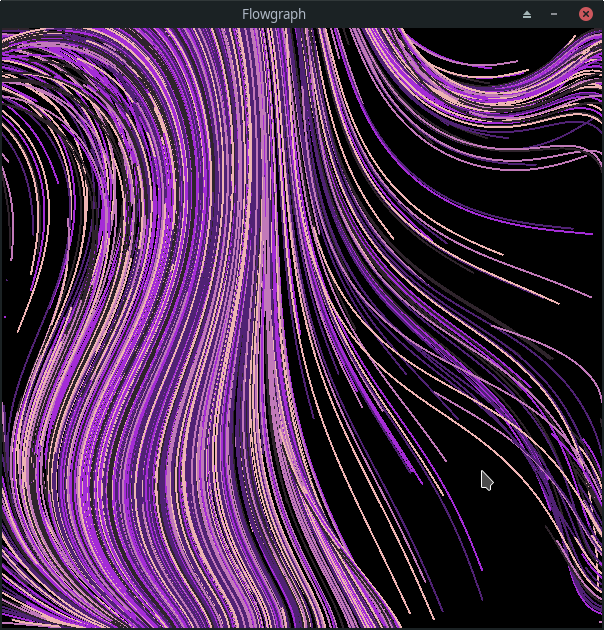
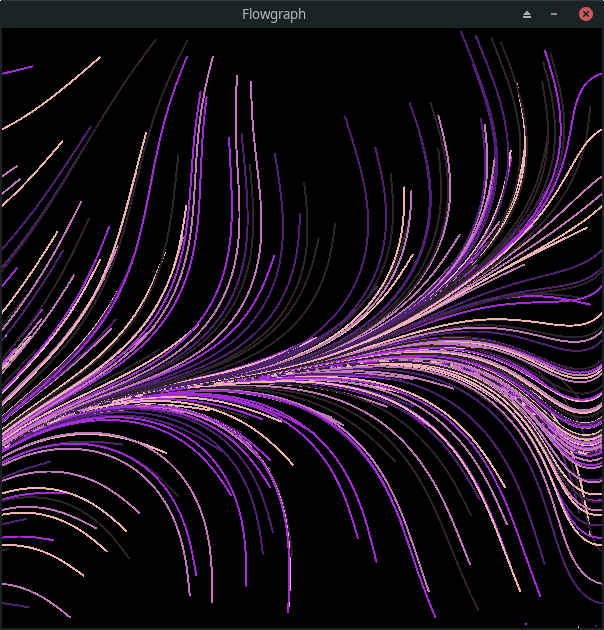
Create LICENSE
update screenshot to remove mouse

diff --git a/main.go b/main.go
@@ -2,12 +2,13 @@ package main
 
 import (
 	"github.com/faiface/pixel"
-	"github.com/faiface/pixel/imdraw"
 	"github.com/faiface/pixel/pixelgl"
 	"github.com/ojrac/opensimplex-go"
+	"golang.org/x/image/colornames"
 	"image/color"
 	"math"
 	"math/rand"
+	"sync"
 	"time"
 )
 
@@ -24,24 +25,55 @@ const MIN_FRAMETIME time.Duration = 0
 // Maximum velocity of the particles
 const MAX_VELOCITY float64 = 0.5
 
-// How fast the depth changes
-const DELTA_Z = 0.00001
+// How fast the depth changes.
+// Bigger is more change.
+const DELTA_Z = 0.0001
 
 // How close the x/y value neighbors should be (for simplex noise)
-// Closer is more similar.
-const SIMILARITY = 0.01
+// Smaller is more similar.
+const SIMILARITY = 0.09
+
+// Number of particles to flow.
+const NUM_PARTICLES = 5000
+
+// Number of threads to render the particles with.
+// DO NOT MAKE THIS <= 0, IT WILL CRASH THE PROGRAM!
+const PARTICLE_THREADS = 10
 
 // Maximum angle for acceleration within a node.
-const MAX_ANGLE = math.Pi * 2
+const MAX_ANGLE = math.Pi / 2
+
+const PARTICLE_WIDTH = 2
 
 var noise = opensimplex.NewNormalized(time.Now().Unix())
 var depth float64 = 0
 var colors = []color.RGBA{
-	{0xEE, 0xB4, 0xB3, 0xFF},
-	{0xC1, 0x79, 0xB9, 0xFF},
-	{0xA4, 0x2C, 0xD6, 0xFF},
-	{0x50, 0x22, 0x74, 0xFF},
-	{0x2F, 0x24, 0x2C, 0xFF},
+	{0xAF, 0xD2, 0xE9, 0xFF},
+	{0x9D, 0x96, 0xB8, 0xFF},
+	{0x9A, 0x71, 0x97, 0xFF},
+	{0x88, 0x61, 0x76, 0xFF},
+	{0x7C, 0x58, 0x69, 0xFF},
+}
+var picture *pixel.PictureData
+var sprites []*pixel.Sprite
+
+func init() {
+	l := len(colors)
+	picture = pixel.MakePictureData(pixel.R(0, 0, PARTICLE_WIDTH, PARTICLE_WIDTH*float64(l)))
+
+	for i := range picture.Pix {
+		picture.Pix[i] = colors[i/int(PARTICLE_WIDTH*PARTICLE_WIDTH)]
+	}
+
+	for c := range colors {
+		sprites = append(sprites, pixel.NewSprite(
+			picture,
+			pixel.R(
+				0, float64(c)*PARTICLE_WIDTH,
+				PARTICLE_WIDTH, float64(c)*PARTICLE_WIDTH+PARTICLE_WIDTH,
+			),
+		))
+	}
 }
 
 // Scale a floating point number to fit between two values.
@@ -84,16 +116,18 @@ func run() {
 	// Create particles that accelerate based on the vector of the node they are
 	// currently in.
 	var particles []*Particle
-	for i := 0; i < 200; i++ {
+	for i := 0; i < NUM_PARTICLES; i++ {
 		particles = append(particles, NewParticle())
 	}
 
 	// Create batch and drawer for fast drawing
-	batch := pixel.NewBatch(
-		&pixel.TrianglesData{},
-		pixel.MakePictureData(pixel.R(0, 0, WINDOW_X, WINDOW_Y)),
-	)
-	imd := imdraw.New(nil)
+	batches := [PARTICLE_THREADS]*pixel.Batch{}
+	for i := 0; i < PARTICLE_THREADS; i++ {
+		batches[i] = pixel.NewBatch(
+			&pixel.TrianglesData{},
+			picture,
+		)
+	}
 
 	// Flow loop
 	t := time.Now()
@@ -101,6 +135,29 @@ func run() {
 		// Quit if escape pressed
 		if win.JustPressed(pixelgl.KeyEscape) {
 			return
+		}
+
+		// Restart graph
+		if win.JustPressed(pixelgl.KeyR) {
+			// Clear screen
+			win.Clear(colornames.Black)
+
+			noise = opensimplex.NewNormalized(time.Now().Unix())
+
+			// Reset grid
+			for x := 0; x < width; x++ {
+				for y := 0; y < height; y++ {
+					grid[x][y] = NewNode(
+						float64(x)*SCALE+SCALE/2, float64(y)*SCALE+SCALE/2,
+					)
+				}
+			}
+
+			// Reset particles
+			particles = []*Particle{}
+			for i := 0; i < NUM_PARTICLES; i++ {
+				particles = append(particles, NewParticle())
+			}
 		}
 
 		// Enforce minimum frametime
@@ -116,34 +173,54 @@ func run() {
 		for x := range grid {
 			for y := range grid[x] {
 				// Uncomment to draw vectors showing acceleration
-				// grid[x][y].Draw(batch, imd)
+				// grid[x][y].Draw(batches[0], imd[0])
 
 				grid[x][y].Update()
 			}
 		}
 		depth += DELTA_Z
 
-		//Move, update the acceleration of and draw the particles
-		for _, particle := range particles {
-			particle.Move()
-
-			x := math.Floor(particle.pos.X / SCALE)
-			y := math.Floor(particle.pos.Y / SCALE)
-			if int(x) < width && int(y) < height &&
-				int(x) > 0 && int(y) > 0 {
-				particle.Update(grid[int(x)][int(y)].accl)
-			}
-
-			particle.Draw(batch, imd)
+		//Move and update the acceleration of the particles
+		// Multithreaded to prevent slowdown if possible
+		wg := &sync.WaitGroup{}
+		for i := 0; i < PARTICLE_THREADS; i++ {
+			wg.Add(1)
+			UpdateAndDrawParticles(i, particles, wg, batches[i], grid)
 		}
+		wg.Wait()
 
 		// Batch draw to the screen
-		batch.Draw(win)
-		batch.Clear()
+		for _, batch := range batches {
+			batch.Draw(win)
+			batch.Clear()
+		}
 
 		win.Update()
 		t = time.Now()
 	}
+}
+
+func UpdateAndDrawParticles(i int, particles []*Particle, wg *sync.WaitGroup,
+	batch *pixel.Batch, grid [][]*Node) {
+	width := int(WINDOW_X / SCALE)
+	height := int(WINDOW_Y / SCALE)
+	start := i * (NUM_PARTICLES / PARTICLE_THREADS)
+	stop := start + (NUM_PARTICLES / PARTICLE_THREADS)
+	for j := start; j < stop; j++ {
+		particles[j].Move()
+
+		x := math.Floor(particles[j].pos.X / SCALE)
+		y := math.Floor(particles[j].pos.Y / SCALE)
+
+		if int(x) < width && int(y) < height &&
+			int(x) >= 0 && int(y) >= 0 {
+			particles[j].Update(grid[int(x)][int(y)].accl)
+		}
+
+		particles[j].Draw(batch)
+	}
+
+	wg.Done()
 }
 
 func main() {

diff --git a/particle.go b/particle.go
@@ -2,15 +2,12 @@ package main
 
 import (
 	"github.com/faiface/pixel"
-	"github.com/faiface/pixel/imdraw"
-	"image/color"
 	"math/rand"
 )
 
 type Particle struct {
 	pos, vel pixel.Vec
-	color    color.RGBA
-	radius   float64
+	color    *pixel.Sprite
 }
 
 // Create a particle with a random starting position/color.
@@ -21,9 +18,8 @@ func NewParticle() *Particle {
 			Scale(rand.Float64(), 0, WINDOW_X, 0, 1),
 			Scale(rand.Float64(), 0, WINDOW_Y, 0, 1),
 		),
-		vel:    pixel.V(0, 0),
-		color:  colors[rand.Intn(len(colors))],
-		radius: 0.5,
+		vel:   pixel.V(0, 0),
+		color: sprites[rand.Intn(len(sprites))],
 	}
 
 	return p
@@ -63,11 +59,6 @@ func (p *Particle) Update(accl pixel.Vec) {
 }
 
 // Draw a particle to the screen
-func (p *Particle) Draw(win pixel.Target, imd *imdraw.IMDraw) {
-	imd.Color = p.color
-	imd.Push(p.pos)
-	imd.Circle(p.radius, 1)
-	imd.Draw(win)
-	imd.Reset()
-	imd.Clear()
+func (p *Particle) Draw(win pixel.Target) {
+	p.color.Draw(win, pixel.IM.Moved(p.pos))
 }

diff --git a/README.md b/README.md
@@ -8,7 +8,13 @@ To run the program, run the following command.
 go run *.go
 ```
 
-![screenshot](img/screen.png)
-
 ## Controls
 `Esc` - Exits the program
+
+`r` - Restarts the grid/particles
+
+![screenshot](img/screen.png)
+
+![screenshot](img/screen2.png)
+
+![screenshot](img/screen3.png)
